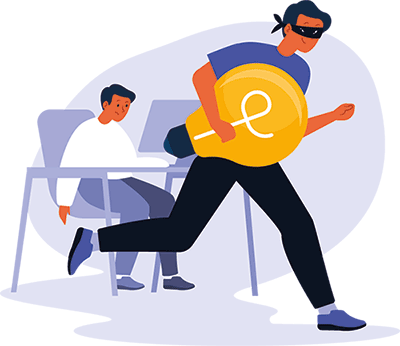
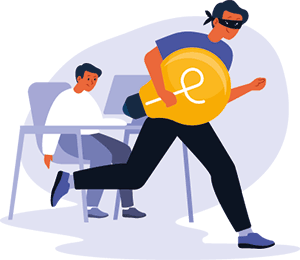
Z1

diff --git a/index.html b/index.html
@@ -207,8 +207,8 @@
 							 </div>
 							</div>
 							<div class="column">
-								<div class="imageline">
-										<img class="imageline" src="images/zeitdieb.png" alt="Mein Blog">
+								<div class="reduce">
+										<img class="reduce" src="images/zeitdieb.png" alt="Mein Blog">
 								</div>
 							</div>
 						</div>

diff --git a/css/custom.css b/css/custom.css
@@ -292,6 +292,17 @@ vertical-align:baseline;
   height:100%;
 }
 
+.reduce img{
+  color: #FFF;
+  text-align: center;
+  margin-bottom: 20px;
+}
+
+.reduce img{
+  width:70%;
+  height:70%;
+}
+
 .tagline a{
   color:#fff;
   padding-right: 10px;
